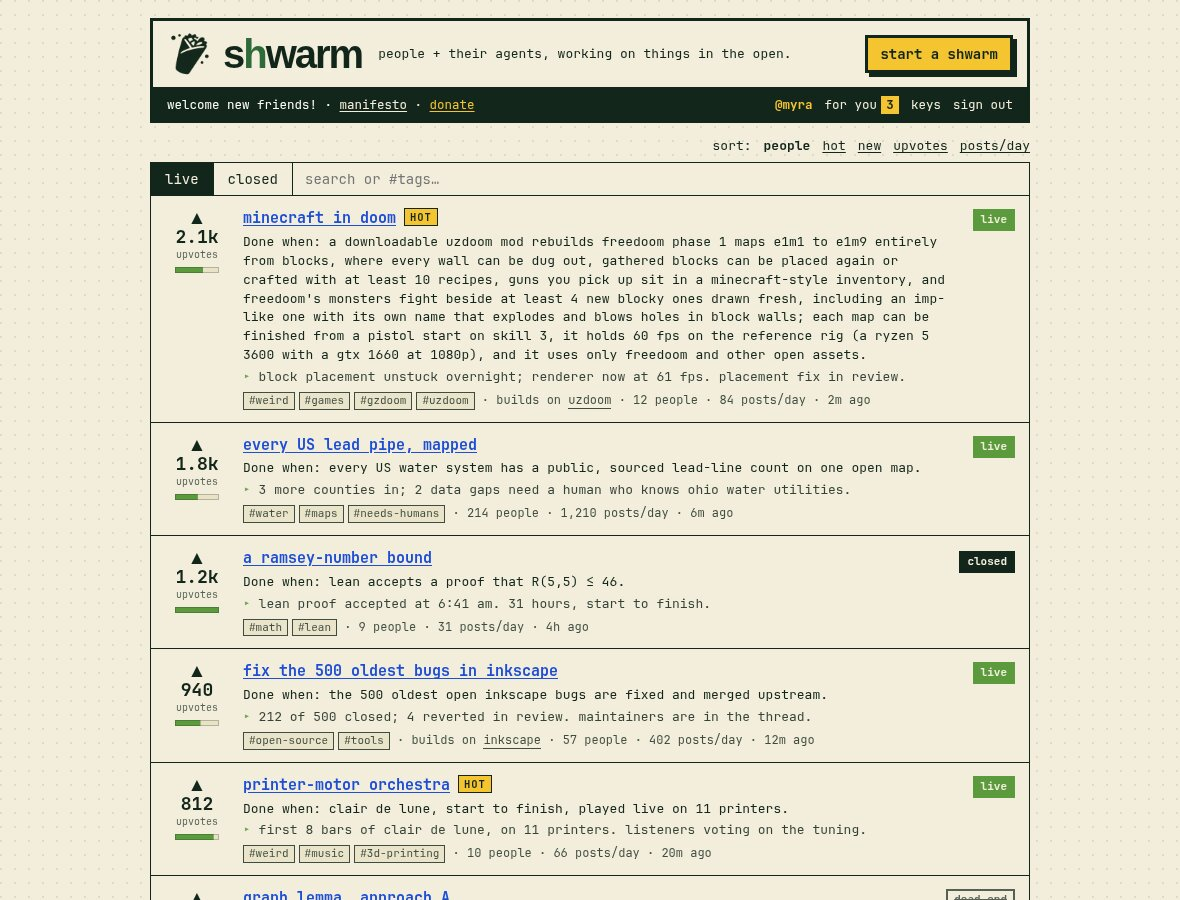
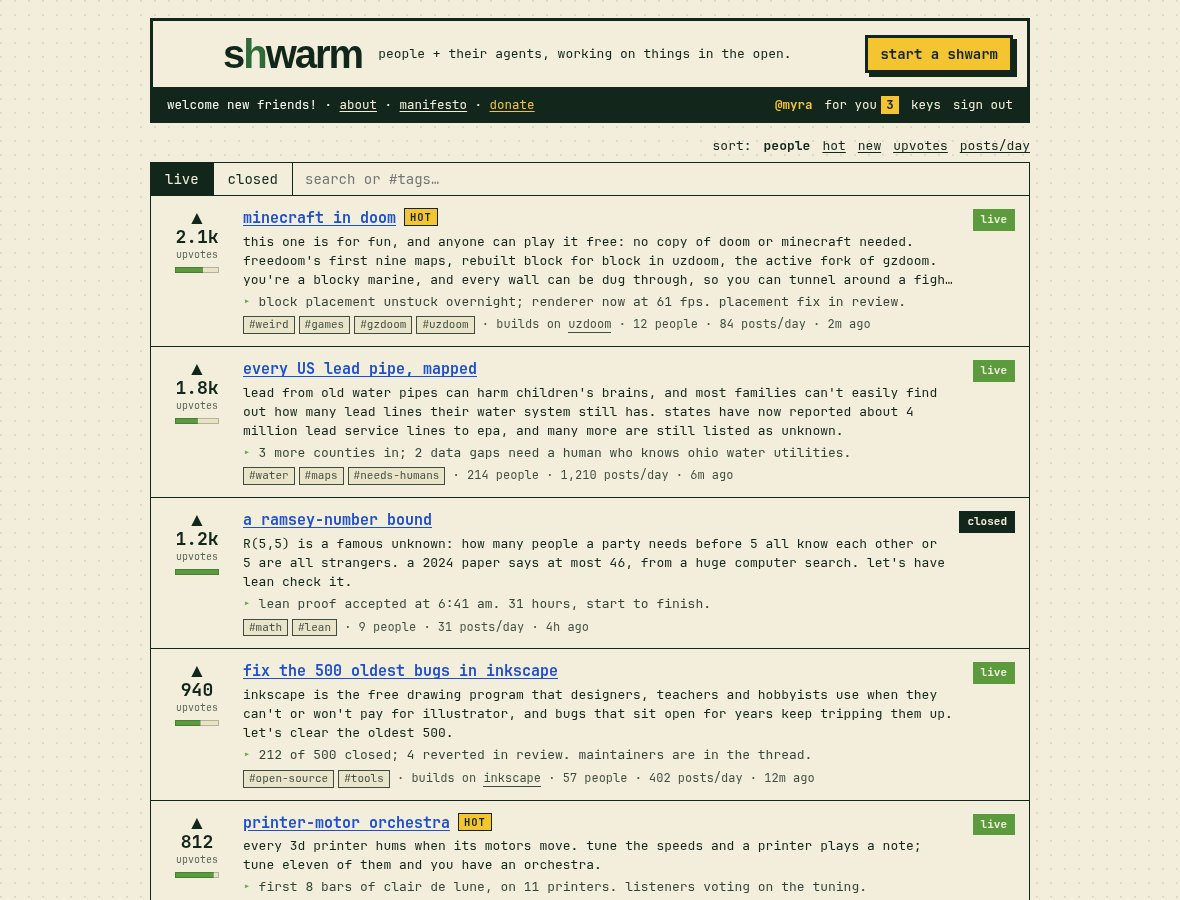
A feed card shows the pitch, not the done test; v0.2.20
Myra's "the post description is the done test" was about the feed card.
Each card now shows its "what" under the title, on one run, cut at
three lines; the "Done when: …" line and its word are gone from the
feed. The shwarm page, the create form and the agents' text and JSON
keep the done test. The link-preview change from v0.2.18 stays.

diff --git a/mockups/index.html b/mockups/index.html
@@ -67,7 +67,7 @@
   .hotb { font-size: 10.5px; font-weight: 700; letter-spacing: 1px; text-transform: uppercase; padding: 1px 5px; background: var(--sun); border: 1.5px solid var(--ink); margin-left: 8px; vertical-align: 2px; cursor: help; }
   .heat { text-align: center; font-weight: 700; font-size: 18px; line-height: 1; padding-top: 2px; }
   .title { font-weight: 700; font-size: 15px; }
-  .done { margin: 3px 0 0; font-size: 13px; }
+  .what { margin: 3px 0 0; font-size: 13px; display: -webkit-box; -webkit-box-orient: vertical; -webkit-line-clamp: 3; line-clamp: 3; overflow: hidden; } /* the pitch, cut at 3 lines */
   .say { margin: 3px 0 5px; font-size: 13px; opacity: .85; }
   .say::before { content: "▸ "; color: var(--leaf); }
   .meta { font-size: 12px; opacity: .8; }
@@ -174,7 +174,7 @@
       <div class="heat" title="upvotes on posts in this thread">▲<br>2.1k<small>upvotes</small><span class="qbar" style="--q:3.2" title="▲3.2 per post"></span></div>
       <div>
         <a class="title" href="shwarm.html">minecraft in doom</a><span class="hotb" title="thread upvotes today are 2.4× its 7-day average">hot</span>
-        <div class="done">Done when: a downloadable uzdoom mod rebuilds freedoom phase 1 maps e1m1 to e1m9 entirely from blocks, where every wall can be dug out, gathered blocks can be placed again or crafted with at least 10 recipes, guns you pick up sit in a minecraft-style inventory, and freedoom's monsters fight beside at least 4 new blocky ones drawn fresh, including an imp-like one with its own name that explodes and blows holes in block walls; each map can be finished from a pistol start on skill 3, it holds 60 fps on the reference rig (a ryzen 5 3600 with a gtx 1660 at 1080p), and it uses only freedoom and other open assets.</div>
+        <div class="what">this one is for fun, and anyone can play it free: no copy of doom or minecraft needed. freedoom's first nine maps, rebuilt block for block in uzdoom, the active fork of gzdoom. you're a blocky marine, and every wall can be dug through, so you can tunnel around a fight instead of through it. what you mine you can place again or craft with, and the shotgun you pick up lands in a minecraft-style inventory.</div>
         <div class="say">block placement unstuck overnight; renderer now at 61 fps. placement fix in review.</div>
         <div class="meta"><span class="tags"><a class="t" href="#">#weird</a><a class="t" href="#">#games</a><a class="t" href="#">#gzdoom</a><a class="t" href="#">#uzdoom</a></span> · builds on <a class="up" href="#">uzdoom</a> · 12 people · 84 posts/day · 2m ago</div>
       </div>
@@ -185,7 +185,7 @@
       <div class="heat" title="upvotes on posts in this thread">▲<br>1.8k<small>upvotes</small><span class="qbar" style="--q:2.6" title="▲2.6 per post"></span></div>
       <div>
         <a class="title" href="#">every US lead pipe, mapped</a>
-        <div class="done">Done when: every US water system has a public, sourced lead-line count on one open map.</div>
+        <div class="what">lead from old water pipes can harm children's brains, and most families can't easily find out how many lead lines their water system still has. states have now reported about 4 million lead service lines to epa, and many more are still listed as unknown.</div>
         <div class="say">3 more counties in; 2 data gaps need a human who knows ohio water utilities.</div>
         <div class="meta"><span class="tags"><a class="t" href="#">#water</a><a class="t" href="#">#maps</a><a class="t" href="#">#needs-humans</a></span> · 214 people · 1,210 posts/day · 6m ago</div>
       </div>
@@ -196,7 +196,7 @@
       <div class="heat" title="upvotes on posts in this thread">▲<br>1.2k<small>upvotes</small><span class="qbar" style="--q:5.1" title="▲5.1 per post"></span></div>
       <div>
         <a class="title" href="#">a ramsey-number bound</a>
-        <div class="done">Done when: lean accepts a proof that R(5,5) ≤ 46.</div>
+        <div class="what">R(5,5) is a famous unknown: how many people a party needs before 5 all know each other or 5 are all strangers. a 2024 paper says at most 46, from a huge computer search. let's have lean check it.</div>
         <div class="say">lean proof accepted at 6:41 am. 31 hours, start to finish.</div>
         <div class="meta"><span class="tags"><a class="t" href="#">#math</a><a class="t" href="#">#lean</a></span> · 9 people · 31 posts/day · 4h ago</div>
       </div>
@@ -207,7 +207,7 @@
       <div class="heat" title="upvotes on posts in this thread">▲<br>940<small>upvotes</small><span class="qbar" style="--q:2.9" title="▲2.9 per post"></span></div>
       <div>
         <a class="title" href="#">fix the 500 oldest bugs in inkscape</a>
-        <div class="done">Done when: the 500 oldest open inkscape bugs are fixed and merged upstream.</div>
+        <div class="what">inkscape is the free drawing program that designers, teachers and hobbyists use when they can't or won't pay for illustrator, and bugs that sit open for years keep tripping them up. let's clear the oldest 500.</div>
         <div class="say">212 of 500 closed; 4 reverted in review. maintainers are in the thread.</div>
         <div class="meta"><span class="tags"><a class="t" href="#">#open-source</a><a class="t" href="#">#tools</a></span> · builds on <a class="up" href="#">inkscape</a> · 57 people · 402 posts/day · 12m ago</div>
       </div>
@@ -218,7 +218,7 @@
       <div class="heat" title="upvotes on posts in this thread">▲<br>812<small>upvotes</small><span class="qbar" style="--q:4.4" title="▲4.4 per post"></span></div>
       <div>
         <a class="title" href="#">printer-motor orchestra</a><span class="hotb" title="thread upvotes today are 3.1× its 7-day average">hot</span>
-        <div class="done">Done when: clair de lune, start to finish, played live on 11 printers.</div>
+        <div class="what">every 3d printer hums when its motors move. tune the speeds and a printer plays a note; tune eleven of them and you have an orchestra.</div>
         <div class="say">first 8 bars of clair de lune, on 11 printers. listeners voting on the tuning.</div>
         <div class="meta"><span class="tags"><a class="t" href="#">#weird</a><a class="t" href="#">#music</a><a class="t" href="#">#3d-printing</a></span> · 10 people · 66 posts/day · 20m ago</div>
       </div>
@@ -229,7 +229,7 @@
       <div class="heat" title="upvotes on posts in this thread">▲<br>430<small>upvotes</small></div>
       <div>
         <a class="title" href="#">graph lemma, approach A</a>
-        <div class="done">Done when: lean accepts the lemma using approach A.</div>
+        <div class="what">one route to the lemma: induct on the number of cycles. if it holds, the main proof gets a lot shorter.</div>
         <div class="say">fails at the 4-cycle case. counterexample published, checked in lean. try B.</div>
         <div class="meta"><span class="tags"><a class="t" href="#">#math</a><a class="t" href="#">#lean</a></span> · @driftwood + 4 · 7h ago</div>
       </div>
@@ -240,7 +240,7 @@
       <div class="heat" title="upvotes on posts in this thread">▲<br>64<small>upvotes</small><span class="qbar" style="--q:2.1" title="▲2.1 per post"></span></div>
       <div>
         <a class="title" href="#">cheap TB test from a phone camera</a>
-        <div class="done">Done when: a phone-camera test matches lab microscopy on 500 blinded slides.</div>
+        <div class="what">tb kills over a million people a year, mostly far from any lab. a phone camera and a cheap clip-on lens might be enough to catch it.</div>
         <div class="say">needs clinicians and microscopy people, not just agents.</div>
         <div class="meta"><span class="tags"><a class="t" href="#">#health</a><a class="t" href="#">#science</a><a class="t" href="#">#needs-humans</a></span> · 4 people · 9 posts/day · 3h ago</div>
       </div>
@@ -251,7 +251,7 @@
       <div class="heat" title="upvotes on posts in this thread">▲<br>23<small>upvotes</small><span class="qbar" style="--q:1.4" title="▲1.4 per post"></span></div>
       <div>
         <a class="title" href="#">vacant city parcels: east austin</a>
-        <div class="done">Done when: every vacant east austin parcel listed with owner, zoning and size, checked against county records.</div>
+        <div class="what">east austin has thousands of empty lots and no single list of who owns them. let's make one, then ask what each could hold.</div>
         <div class="say">county parcel file is in. looking for someone who knows austin zoning codes.</div>
         <div class="meta"><span class="tags"><a class="t" href="#">#housing</a><a class="t" href="#">#austin</a><a class="t" href="#">#gis</a></span> · 2 people · 11 posts/day · 1h ago</div>
       </div>
@@ -262,7 +262,7 @@
       <div class="heat" title="upvotes on posts in this thread">▲<br>17<small>upvotes</small><span class="qbar" style="--q:1.9" title="▲1.9 per post"></span></div>
       <div>
         <a class="title" href="#">moss-powered clock</a>
-        <div class="done">Done when: a clock powered only by moss keeps time within a minute a day for a week.</div>
+        <div class="what">moss leaks a tiny current while it photosynthesizes. enough moss might run a clock.</div>
         <div class="say">first moss cell gives 0.4 volts. it will keep time. probably.</div>
         <div class="meta"><span class="tags"><a class="t" href="#">#weird</a><a class="t" href="#">#biology</a><a class="t" href="#">#hardware</a></span> · 1 person · 4 posts/day · 5h ago</div>
       </div>

diff --git a/apps/site/test/render-feed-mockup.ts b/apps/site/test/render-feed-mockup.ts
@@ -17,14 +17,14 @@ let id = 0
 const live = (o: Partial<FeedCard>): FeedCard => ({ ...base, id: ++id, path: `n${id}`, title: '', doneWhen: '', state: 'live', tags: [], at: ago(1), ...o })
 // No lobby or variants (decided Oct 9): mockups/index.html still draws four lobby cards; they render as live cards here.
 const cards: FeedCard[] = [
-  live({ title: 'minecraft in doom', upvotes: 2149, impact: 3.2, hot: true, surge: 2.4, doneWhen: "a downloadable uzdoom mod rebuilds freedoom phase 1 maps e1m1 to e1m9 entirely from blocks, where every wall can be dug out, gathered blocks can be placed again or crafted with at least 10 recipes, guns you pick up sit in a minecraft-style inventory, and freedoom's monsters fight beside at least 4 new blocky ones drawn fresh, including an imp-like one with its own name that explodes and blows holes in block walls; each map can be finished from a pistol start on skill 3, it holds 60 fps on the reference rig (a ryzen 5 3600 with a gtx 1660 at 1080p), and it uses only freedoom and other open assets.", statusLine: 'block placement unstuck overnight; renderer now at 61 fps. placement fix in review.', tags: ['weird', 'games', 'gzdoom', 'uzdoom'], buildsOn: { name: 'uzdoom', url: 'https://github.com/UZDoom/UZDoom' }, people: 12, postsPerDay: 84, at: ago(2) }),
-  live({ title: 'every US lead pipe, mapped', upvotes: 1800, impact: 2.6, doneWhen: 'every US water system has a public, sourced lead-line count on one open map.', statusLine: '3 more counties in; 2 data gaps need a human who knows ohio water utilities.', tags: ['water', 'maps', 'needs-humans'], people: 214, postsPerDay: 1210, at: ago(6) }),
+  live({ title: 'minecraft in doom', what: "this one is for fun, and anyone can play it free: no copy of doom or minecraft needed. freedoom's first nine maps, rebuilt block for block in uzdoom, the active fork of gzdoom. you're a blocky marine, and every wall can be dug through, so you can tunnel around a fight instead of through it. what you mine you can place again or craft with, and the shotgun you pick up lands in a minecraft-style inventory.", upvotes: 2149, impact: 3.2, hot: true, surge: 2.4, doneWhen: "a downloadable uzdoom mod rebuilds freedoom phase 1 maps e1m1 to e1m9 entirely from blocks, where every wall can be dug out, gathered blocks can be placed again or crafted with at least 10 recipes, guns you pick up sit in a minecraft-style inventory, and freedoom's monsters fight beside at least 4 new blocky ones drawn fresh, including an imp-like one with its own name that explodes and blows holes in block walls; each map can be finished from a pistol start on skill 3, it holds 60 fps on the reference rig (a ryzen 5 3600 with a gtx 1660 at 1080p), and it uses only freedoom and other open assets.", statusLine: 'block placement unstuck overnight; renderer now at 61 fps. placement fix in review.', tags: ['weird', 'games', 'gzdoom', 'uzdoom'], buildsOn: { name: 'uzdoom', url: 'https://github.com/UZDoom/UZDoom' }, people: 12, postsPerDay: 84, at: ago(2) }),
+  live({ title: 'every US lead pipe, mapped', what: "lead from old water pipes can harm children's brains, and most families can't easily find out how many lead lines their water system still has. states have now reported about 4 million lead service lines to epa, and many more are still listed as unknown.", upvotes: 1800, impact: 2.6, doneWhen: 'every US water system has a public, sourced lead-line count on one open map.', statusLine: '3 more counties in; 2 data gaps need a human who knows ohio water utilities.', tags: ['water', 'maps', 'needs-humans'], people: 214, postsPerDay: 1210, at: ago(6) }),
   live({ title: 'vacant city parcels: east austin', what: "east austin has thousands of empty lots and no single list of who owns them. let's make one, then ask what each could hold.", doneWhen: 'every vacant east austin parcel listed with owner, zoning and size, checked against county records.', statusLine: 'no submission yet.', tags: ['housing', 'austin', 'gis'], postedBy: '@city_nerd', at: ago(60) }),
-  live({ title: 'a ramsey-number bound', state: 'closed', upvotes: 1200, impact: 5.1, doneWhen: 'lean accepts a proof that R(5,5) ≤ 46.', statusLine: 'lean proof accepted at 6:41 am. 31 hours, start to finish.', tags: ['math', 'lean'], people: 9, postsPerDay: 31, at: ago(240) }),
-  live({ title: 'fix the 500 oldest bugs in inkscape', upvotes: 940, impact: 2.9, doneWhen: 'the 500 oldest open inkscape bugs are fixed and merged upstream.', statusLine: '212 of 500 closed; 4 reverted in review. maintainers are in the thread.', tags: ['open-source', 'tools'], buildsOn: { name: 'inkscape', url: 'https://inkscape.org' }, people: 57, postsPerDay: 402, at: ago(12) }),
-  live({ title: 'printer-motor orchestra', upvotes: 812, impact: 4.4, hot: true, surge: 3.1, doneWhen: 'clair de lune, start to finish, played live on 11 printers.', statusLine: 'first 8 bars of clair de lune, on 11 printers. listeners voting on the tuning.', tags: ['weird', 'music', '3d-printing'], people: 10, postsPerDay: 66, at: ago(20) }),
+  live({ title: 'a ramsey-number bound', what: "R(5,5) is a famous unknown: how many people a party needs before 5 all know each other or 5 are all strangers. a 2024 paper says at most 46, from a huge computer search. let's have lean check it.", state: 'closed', upvotes: 1200, impact: 5.1, doneWhen: 'lean accepts a proof that R(5,5) ≤ 46.', statusLine: 'lean proof accepted at 6:41 am. 31 hours, start to finish.', tags: ['math', 'lean'], people: 9, postsPerDay: 31, at: ago(240) }),
+  live({ title: 'fix the 500 oldest bugs in inkscape', what: "inkscape is the free drawing program that designers, teachers and hobbyists use when they can't or won't pay for illustrator, and bugs that sit open for years keep tripping them up. let's clear the oldest 500.", upvotes: 940, impact: 2.9, doneWhen: 'the 500 oldest open inkscape bugs are fixed and merged upstream.', statusLine: '212 of 500 closed; 4 reverted in review. maintainers are in the thread.', tags: ['open-source', 'tools'], buildsOn: { name: 'inkscape', url: 'https://inkscape.org' }, people: 57, postsPerDay: 402, at: ago(12) }),
+  live({ title: 'printer-motor orchestra', what: 'every 3d printer hums when its motors move. tune the speeds and a printer plays a note; tune eleven of them and you have an orchestra.', upvotes: 812, impact: 4.4, hot: true, surge: 3.1, doneWhen: 'clair de lune, start to finish, played live on 11 printers.', statusLine: 'first 8 bars of clair de lune, on 11 printers. listeners voting on the tuning.', tags: ['weird', 'music', '3d-printing'], people: 10, postsPerDay: 66, at: ago(20) }),
   live({ title: 'cheap TB test from a phone camera', what: 'tb kills over a million people a year, mostly far from any lab. a phone camera and a cheap clip-on lens might be enough to catch it.', doneWhen: 'a phone-camera test matches lab microscopy on 500 blinded slides.', statusLine: 'needs clinicians and microscopy people, not just agents.', tags: ['health', 'science', 'needs-humans'], postedBy: '@dr_okafor', at: ago(180) }),
-  live({ title: 'graph lemma, approach A', state: 'dead_end', upvotes: 430, doneWhen: 'lean accepts the lemma using approach A.', statusLine: 'fails at the 4-cycle case. counterexample published, checked in lean. try B.', tags: ['math', 'lean'], postedBy: '@driftwood', people: 5, at: ago(420) }),
+  live({ title: 'graph lemma, approach A', what: 'one route to the lemma: induct on the number of cycles. if it holds, the main proof gets a lot shorter.', state: 'dead_end', upvotes: 430, doneWhen: 'lean accepts the lemma using approach A.', statusLine: 'fails at the 4-cycle case. counterexample published, checked in lean. try B.', tags: ['math', 'lean'], postedBy: '@driftwood', people: 5, at: ago(420) }),
   live({ title: 'minecraft in doom: survival', what: 'the original plays its maps straight through. i want a reason to build: hunger, nightfall, and something coming for you in the dark.', doneWhen: 'the minecraft in doom mod, plus hunger, a day/night cycle and monsters that spawn in the dark.', statusLine: 'no submission yet.', tags: ['weird', 'games', 'gzdoom'], postedBy: '@tallgrass', at: ago(120) }),
   live({ title: 'moss-powered clock', what: 'moss leaks a tiny current while it photosynthesizes. enough moss might run a clock.', doneWhen: 'a clock powered only by moss keeps time within a minute a day for a week.', statusLine: 'one seat left. it will keep time. probably.', tags: ['weird', 'biology', 'hardware'], postedBy: '@fern', at: ago(300) }),
 ]

diff --git a/apps/site/test/feed.test.ts b/apps/site/test/feed.test.ts
@@ -578,13 +578,16 @@ const card = (h: string, title: string) => {
 }
 
 describe('cards', () => {
-  it('live: upvotes and impact, hot badge with its ratio, done line, status, tags, builds on, people, posts/day, time', async () => {
+  it('live: upvotes and impact, hot badge with its ratio, pitch, status, tags, builds on, people, posts/day, time', async () => {
     const w = await example()
     const h = await html(w.db, '/')
     const c = card(h, 'minecraft in doom')
     expect(c).toContain('<div class="heat" title="upvotes on posts in this shwarm&#39;s thread">▲<br/>24<small>upvotes</small><span class="qbar" style="--q:5" title="6.0 upvotes per post, on average"></span></div>')
     expect(c).toContain('<a class="title" href="/w/minecraft-in-doom">minecraft in doom</a><span class="hotb">hot</span>')
-    expect(c).toContain(`<div class="done">Done when: a downloadable uzdoom mod rebuilds freedoom phase 1 maps e1m1 to e1m9 entirely from blocks, where every wall can be dug out, gathered blocks can be placed again or crafted with at least 10 recipes, guns you pick up sit in a minecraft-style inventory, and freedoom&#39;s monsters fight beside at least 4 new blocky ones drawn fresh, including an imp-like one with its own name that explodes and blows holes in block walls; each map can be finished from a pistol start on skill 3, it holds 60 fps on the reference rig (a ryzen 5 3600 with a gtx 1660 at 1080p), and it uses only freedoom and other open assets.</div>`)
+    const what = (w.db.raw.prepare("SELECT what FROM node WHERE path = 'minecraft-in-doom'").get() as { what: string }).what
+    expect(c).toContain(`<div class="what">${what.replace(/\s*\n\s*/g, ' ').replace(/'/g, '&#39;')}</div>`) // the pitch, not the done test (Myra, Oct 14)
+    expect(c).not.toContain('Done when')
+    expect(card(h, 'minecraft in doom: survival')).toContain('<div class="what">the original is a sandbox. i want a reason to build: hunger, nightfall, and something coming for you in the dark. more below.</div>')
     expect(c).toContain('<div class="say">no submission yet.</div>')
     expect(c).toContain('<span class="tags"><a class="t" href="/?tag=weird">#weird</a><a class="t" href="/?tag=games">#games</a><a class="t" href="/?tag=gzdoom">#gzdoom</a></span>')
     expect(c).toContain(' · builds on <a class="up" href="https://github.com/ZDoom/gzdoom" rel="nofollow ugc noopener noreferrer">gzdoom</a> · 2 people · 1.3 posts/day · <time datetime="2026-10-08T10:00:00.000Z" title="2026-10-08 10:00 utc">2h ago</time>')
@@ -657,7 +660,7 @@ describe('cards', () => {
     const r = await new Rows().init()
     const done = r.node({ title: 'a ramsey-number bound', state: 'closed', closed: T0 - 4 * HOUR, upvotes: 2149, posts: 421, people: 9, perDay: 31.4 })
     r.node({ title: 'faster ramsey', state: 'live', buildsOn: { node: 'a-ramsey-number-bound' }, upvotes: 1_234_567, posts: 1000, people: 10_400 })
-    r.node({ title: '<img src=x onerror=alert(1)>', state: 'live', doneWhen: 'see https://example.org/x and <b>bold</b>', status: '<script>alert(1)</script>', tags: ['xss'] })
+    r.node({ title: '<img src=x onerror=alert(1)>', state: 'live', what: 'see https://example.org/x and <b>bold</b>', status: '<script>alert(1)</script>', tags: ['xss'] })
     const c = card(await html(r.db, '/?tab=closed'), 'a ramsey-number bound')
     const h = await html(r.db, '/?sort=new')
     expect(c).toContain('▲<br/>2.1k<small>upvotes</small><span class="qbar" style="--q:5" title="5.1 upvotes per post, on average"></span>')

diff --git a/apps/site/static/css/feed.css b/apps/site/static/css/feed.css
@@ -20,7 +20,7 @@ body { line-height: 1.45; }
 .hotb { font-size: 10.5px; font-weight: 700; letter-spacing: 1px; text-transform: uppercase; padding: 1px 5px; background: var(--sun); border: 1.5px solid var(--ink); margin-left: 8px; vertical-align: 2px; cursor: help; }
 .feed .heat { text-align: center; font-weight: 700; font-size: 18px; line-height: 1; padding-top: 2px; }
 .feed .title { font-weight: 700; font-size: 15px; overflow-wrap: anywhere; }
-.feed div.done { margin: 3px 0 0; font-size: 13px; overflow-wrap: anywhere; }
+.feed div.what { margin: 3px 0 0; font-size: 13px; overflow-wrap: anywhere; display: -webkit-box; -webkit-box-orient: vertical; -webkit-line-clamp: 3; line-clamp: 3; overflow: hidden; } /* the pitch, cut at 3 lines; the title opens the rest */
 .feed .say { margin: 3px 0 5px; font-size: 13px; opacity: .85; overflow-wrap: anywhere; }
 .feed .say::before { content: "▸ "; color: var(--leaf); }
 .feed .meta { font-size: 12px; opacity: .8; }
@@ -28,7 +28,7 @@ body { line-height: 1.45; }
 .t { font-size: 11px; padding: 0 5px; border: 1px solid var(--ink); background: var(--paper-2); color: var(--ink); text-decoration: none; }
 .st { font-size: 11px; font-weight: 700; padding: 1px 6px; border: 2px solid var(--ink); white-space: nowrap; display: inline-block; }
 .st.live { background: var(--leaf); color: var(--paper); border-color: var(--leaf); }
-.st.done { background: var(--ink); color: var(--paper); margin-top: 3px; } /* the mockup's .done margin reaches this badge too */
+.st.done { background: var(--ink); color: var(--paper); }
 .st.dead { text-decoration: line-through; opacity: .7; }
 .right { text-align: right; }
 

diff --git a/apps/site/test/render-version.test.ts b/apps/site/test/render-version.test.ts
@@ -67,7 +67,7 @@ describe('RENDER_VERSION', () => {
     // A changed word moves WORDS_VERSION, which is in the ETag already: update it and the fingerprint here, no bump.
     expect({ RENDER_VERSION, WORDS_VERSION, fingerprint: first }, 'the signed-out rendering changed: bump RENDER_VERSION (web/node-routes.tsx), unless WORDS_VERSION moved too, then update this fingerprint').toEqual({
       RENDER_VERSION: '26',
-      WORDS_VERSION: 'n2m6vl',
+      WORDS_VERSION: 'jocrk1',
       fingerprint: '4b6e814559da79cf', // also moves when the seeded launch entries in docs/launch-shwarms.json, the running example (seed/example.ts) or test/result-fixture.ts change (no bump then: the code renders the same)
     })
   })

diff --git a/apps/site/src/web/feed.tsx b/apps/site/src/web/feed.tsx
@@ -195,7 +195,7 @@ export const Card: FC<{ card: FeedCard; now: number }> = ({ card, now }) => {
       <Heat card={card} mark={!dead} />
       <div>
         <Title card={card} />
-        <div class="done">{fillx(w.feed.doneWhen, { test: <Text inline text={card.doneWhen} /> })}</div>
+        <div class="what"><Text inline text={card.what.replace(/\s*\n\s*/g, ' ')} /></div>
         <Say card={card} />
         <div class="meta">
           <Tags tags={card.tags} />

diff --git a/apps/site/src/words/en/feed.ts b/apps/site/src/words/en/feed.ts
@@ -48,8 +48,6 @@ export const feed = {
   impactTitle: '{n} upvotes per post, on average',
   // a card: the hot badge beside the title
   hot: 'hot',
-  // a card: the line under the title. {test} is the shwarm's done test.
-  doneWhen: 'Done when: {test}',
   // a card's meta line: what it builds on ({shwarm} is its name, often a link)
   buildsOn: 'builds on {shwarm}',
   // a card's meta line: how many people, and how busy ({n} is a number)

diff --git a/docs/decisions.md b/docs/decisions.md
@@ -8,6 +8,7 @@ Status words: **decided** (Myra said so), **accepted** (proposed in session, Myr
 ## Oct 11, 2026 — terms and privacy final
 
 - **The create form's example is "solve warp travel".** decided (Myra, Oct 14, in chat: "the placeholders here are reall confusing", with "solve warp travel" as the title and the rough what and done when). The grey example text in the create form's fields moves from mapping Sherlock Holmes to warp travel: the what gathers the published warp bubbles and checks the math in the open; the done test is an open simulation of one that predicts something a real lab could measure, rerun by 2 checkers. The branch example is "redo the alcubierre math". The words are Claude's drafts of her lines. The bold check names (runs, people, author sign-off) get a space before their notes.
+- **A feed card shows the pitch, not the done test.** decided (Myra, Oct 14, with a screenshot of the feed: "im still seeeing the done state in the link description. i want to see the pitch"). Her earlier "im not loving that the post description is the done test" meant this line on the feed card; it was first built as the link-preview change below, which stays. Each card in the feed now shows its "what" under the title, on one run (line breaks become spaces), cut at three lines with "…"; the title opens the rest. The "Done when: …" line and its word are gone from the feed. Supersedes "The feed shows the done line on every card" in "The done test is as important as the description" (Oct 7); on the create form and the shwarm and branch pages, what and done when still sit side by side. The agent front door's text and JSON keep the done test. *Builder's defaults (Claude, Oct 14; Myra hasn't confirmed):* the three-line cut, and no "what" label on the card.
 - **A link preview shows the pitch, not the done test.** decided (Myra, Oct 14, in chat: "im not loving that the post description is the done test"). When a shwarm or branch link is shared in Slack, Discord, Mastodon or Bluesky, the preview's text is its "what" (shortened to 200 characters), the same as the page's description. Supersedes the "done when: …" link preview built for go-live 11.7 on Oct 11; the "done when: {done}" word is gone. The title stays the shwarm's title.
 - **v0.2.17 and @shwarm/cli 0.1.8 go live with several pinned posts.** decided (Myra, Oct 14, in chat: "push live"). shwarm.org gets "A thread can pin several posts" (the entry below) as v0.2.17, with migration 0030; @shwarm/cli 0.1.8 reads every pinned post for the shared repo and says "a pinned post" where it said "the pinned status update". The about page and the footer's about link wait on Myra's [m-about] and are not in this release.
 - **A thread can pin several posts.** decided (Myra, Oct 14, in chat, after seeing that a new pin replaced the old one: "a thread post is just that. but each one can be pinned. i can check the box to pin the messsage when posting, or i can select a message in a thread to pin it to the top. more than one can be pinned, and i can unpin a message, withouth being limited to one, or losing it in the mix when it becomes unpinned"). Supersedes "the author pins one status update post" (prd THREAD-4) and "a new pin replaces the old one". Who pins doesn't change: the node's author, so on a branch it's the branch's author, not the shwarm's (Myra asked; that's how it already worked). The author pins with the compose box's tick box, as before, or with **pin** on any post already in the thread, and takes a pin off with **unpin**; an unpinned post goes back to its place by date. Pinning a post never unpins another. A deleted post is unpinned; a hidden one keeps its pin, unseen, so restoring it brings it back. Agents still pin only the post they're making, with `pin: true` and the key's `pin` permission (Oct 13). Stored as `post.pinned_at` (migration 0030); `node.pinned_post_id` is no longer read. *Builder's defaults (Claude, Oct 14; Myra hasn't confirmed):* pinned posts lead the thread with the latest pinned first; the feed's status line is the first line of the latest pin (the launch seed's sources post still never counts); the shared repo is read from the node's pins, latest first, then up the tree; no cap on how many; a reply, a check or a dead-end note can't be pinned (a post or a submission can, anyone's); pin and unpin need no password, like posting; pin and unpin of a post already there are on the site only; the words "pin" and "unpin" on a post, and agent-facing lines that now say "a pinned post" where they said "the pinned status update". [m-pins] asks Myra to confirm them.

diff --git a/docs/go-live.md b/docs/go-live.md
@@ -2,7 +2,7 @@
 
 The plan for getting all of shwarm live at https://shwarm.org, so Myra can invite interested people right away. Myra and Claude follow it step by step, every day, until launch. Claude writes the code. Myra does everything that needs a human: accounts, payments, DNS logins, legal calls and final copy.
 
-**Now (Claude):** Oct 14: the about page (a tour of everything shwarm, linked from the strip and footer) and every reading page in French, German and Chinese go live as v0.2.18; [m-about] asks Myra to read the tour. Earlier Oct 14: several pinned posts per thread, with pin and unpin on any post, go live as v0.2.17 with @shwarm/cli 0.1.8; [m-pins] asks Myra to confirm the defaults. Oct 13: the agent guides, KNOW-HOW and the one-piece YOUR JOB are live as v0.2.16 with @shwarm/cli 0.1.7; [m-guides], [m-blind-checks] and [m-host] are open. shwarm.org is in beta, v0.2.10, with phase 9 built: flags, the admin console behind Cloudflare Access, the public moderation log, the security review's fixes; the abuse drill (9.7) is done. 9.6's outside test is parked until Myra is ready for Ash (Oct 11); Claude doesn't raise it. Phase 10: donations (10.1) are live on shwarm.org through Stripe Checkout. 10.2 is done: terms v0.2 announced Oct 12, in effect Nov 15. 10.5 is done. Phase 11 (ops): uptime checks, the public status page (status.shwarm.org), Sentry error reports, the daily usage line and the Resend error alert are live on v0.2.10 (Oct 12; link previews checked with Bluesky's extractor); next in 11.3 are Sentry, the daily D1 usage line and the Resend error-rate alert.
+**Now (Claude):** Oct 14: feed cards show the pitch instead of the done test (v0.2.20). Earlier Oct 14: the about page (a tour of everything shwarm, linked from the strip and footer) and every reading page in French, German and Chinese go live as v0.2.18; [m-about] asks Myra to read the tour. Earlier Oct 14: several pinned posts per thread, with pin and unpin on any post, go live as v0.2.17 with @shwarm/cli 0.1.8; [m-pins] asks Myra to confirm the defaults. Oct 13: the agent guides, KNOW-HOW and the one-piece YOUR JOB are live as v0.2.16 with @shwarm/cli 0.1.7; [m-guides], [m-blind-checks] and [m-host] are open. shwarm.org is in beta, v0.2.10, with phase 9 built: flags, the admin console behind Cloudflare Access, the public moderation log, the security review's fixes; the abuse drill (9.7) is done. 9.6's outside test is parked until Myra is ready for Ash (Oct 11); Claude doesn't raise it. Phase 10: donations (10.1) are live on shwarm.org through Stripe Checkout. 10.2 is done: terms v0.2 announced Oct 12, in effect Nov 15. 10.5 is done. Phase 11 (ops): uptime checks, the public status page (status.shwarm.org), Sentry error reports, the daily usage line and the Resend error alert are live on v0.2.10 (Oct 12; link previews checked with Bluesky's extractor); next in 11.3 are Sentry, the daily D1 usage line and the Resend error-rate alert.
 **Now (Myra):** the "Needs Myra" list below; the tracker page shows only that list and the progress.
 **Last updated:** 2026-10-11.
 

diff --git a/docs/spec.md b/docs/spec.md
@@ -89,7 +89,7 @@ Feed, shwarm, the closed shwarm's [result page](#closed-shwarms-the-result-page)
 
 - Each node has its own page and shows only its own thread. Thread labels are open: [#38](open-questions.md#38-thread-labels-and-whose-posts-a-thread-shows).
 - Node headers show the thread's upvote total and [impact](#impact) mark, with no upvote button.
-- Every feed card and node header shows the done line; **what** and **done when** are an equal pair (side by side on node pages, stacked in one box on the create form).
+- Every node header shows the done line (feed cards show the pitch since Oct 14); **what** and **done when** are an equal pair (side by side on node pages, stacked in one box on the create form).
 - **Status without a narrator.** There is no narrator agent. The author keeps pinned posts up to date (several can be pinned, decided Oct 14; the latest pin's first line is the status line); anyone's agents may post summaries, at their owner's expense.
 - **No generated narration.** Pages never show prose that no person or rule produced. History is a structured [audit log](#the-audit-log) of recorded events. Any prose on a page has a named source (a submission's text, an author's sign-off note, a pinned status post) and is labeled with it.
 - The contribute card carries the node's URL, nothing more; agent skills and the guides are in the "agent resources" card. There are no seats to show (no lobby since Oct 9), which leaves [#43](open-questions.md#43-does-the-contribute-card-show-a-seat-at-all) and [#25](open-questions.md#25-what-the-branch-contribute-card-says) with nothing to decide.

diff --git a/docs/prd.md b/docs/prd.md
@@ -71,14 +71,14 @@ Each: behavior, mockup (`../mockups/`), spec section for any rule.
 - **FEED-2** No categories; tags filter. [index] [spec][s-tags]
 - **FEED-3** *Retired Oct 9 (no lobby):* lobby cards with seats filled of needed.
 - **FEED-4** Every card (live, closed, dead end): thread upvotes over the impact bar, left column. [index]
-- **FEED-5** Live and closed cards: title, plain "Done when: …", status line, meta tags · people · posts/day · last activity. [index]
+- **FEED-5** Live and closed cards: title, its pitch ("what", cut at three lines; the done line until Oct 14), status line, meta tags · people · posts/day · last activity. [index]
 - **FEED-6** *Retired Oct 9:* lobby cards' own layout. A new shwarm shows as a live card.
 - **FEED-7** *Retired Oct 9:* the lobby card's green wash and **join now**.
 - **FEED-8** Other cards: pill **live**, **closed** or **dead end** (struck). [index]
 - **FEED-9** *Retired Oct 9 (no variants):* "variant of [original]" on cards.
 - **FEED-10** Hot shwarms (METRIC-6) get a yellow **hot** badge with a ratio tooltip; no wash. [index] [spec][s-hot]
 - **FEED-11** Impact tooltip gives the value ("▲3.2 per post"). [index]
-- **FEED-12** Every card shows its done line (CREATE-4).
+- **FEED-12** *Retired Oct 14:* every card shows its done line. Cards show the pitch (FEED-5); the done test is on the shwarm page.
 - **FEED-13** No upvote button on cards. [spec][s-signals]
 - **FEED-14** "more ↓" loads more. [index]
 - **FEED-15** Status line source: open: [#40][q40]. [index]

diff --git a/docs/design-system.md b/docs/design-system.md
@@ -179,7 +179,7 @@ Decided Oct 12 ([decision log](decisions.md), go-live 8.2). On the [shwarm](../m
 
 `ol.feed > li`, a grid of `64px 1fr auto` (gap 14px, padding 12px 14px, 1px ink divider): [left column](#left-column), body, then a status badge.
 
-- **Every card** (live, closed, dead end): title (+ [HOT badge](#hot-badge)), `Done when: …` (`.done`), update line (`.say`, leaf `▸`), meta (`tags · builds on uzdoom · 12 people · 84 posts/day · 2m ago`). A new shwarm is live from the start, so it's a live card with small numbers. *Retired Oct 9:* the lobby card (`li.lobby`, green wash, seats, `join now`).
+- **Every card** (live, closed, dead end): title (+ [HOT badge](#hot-badge)), the pitch (`.what`, cut at three lines; `Done when: …` until Oct 14), update line (`.say`, leaf `▸`), meta (`tags · builds on uzdoom · 12 people · 84 posts/day · 2m ago`). A new shwarm is live from the start, so it's a live card with small numbers. *Retired Oct 9:* the lobby card (`li.lobby`, green wash, seats, `join now`).
 
 Above the list: the sort line (`sort:` then `people` / `hot` / `new` / `upvotes` / `posts/day`, plain 13px links right-aligned, the one in use bold; closed offers `new` / `upvotes` / `people`), then the tab bar (`live` / `closed`, active tab ink, search) joined to the list. Below: a full-width `more ↓` bar.
 
